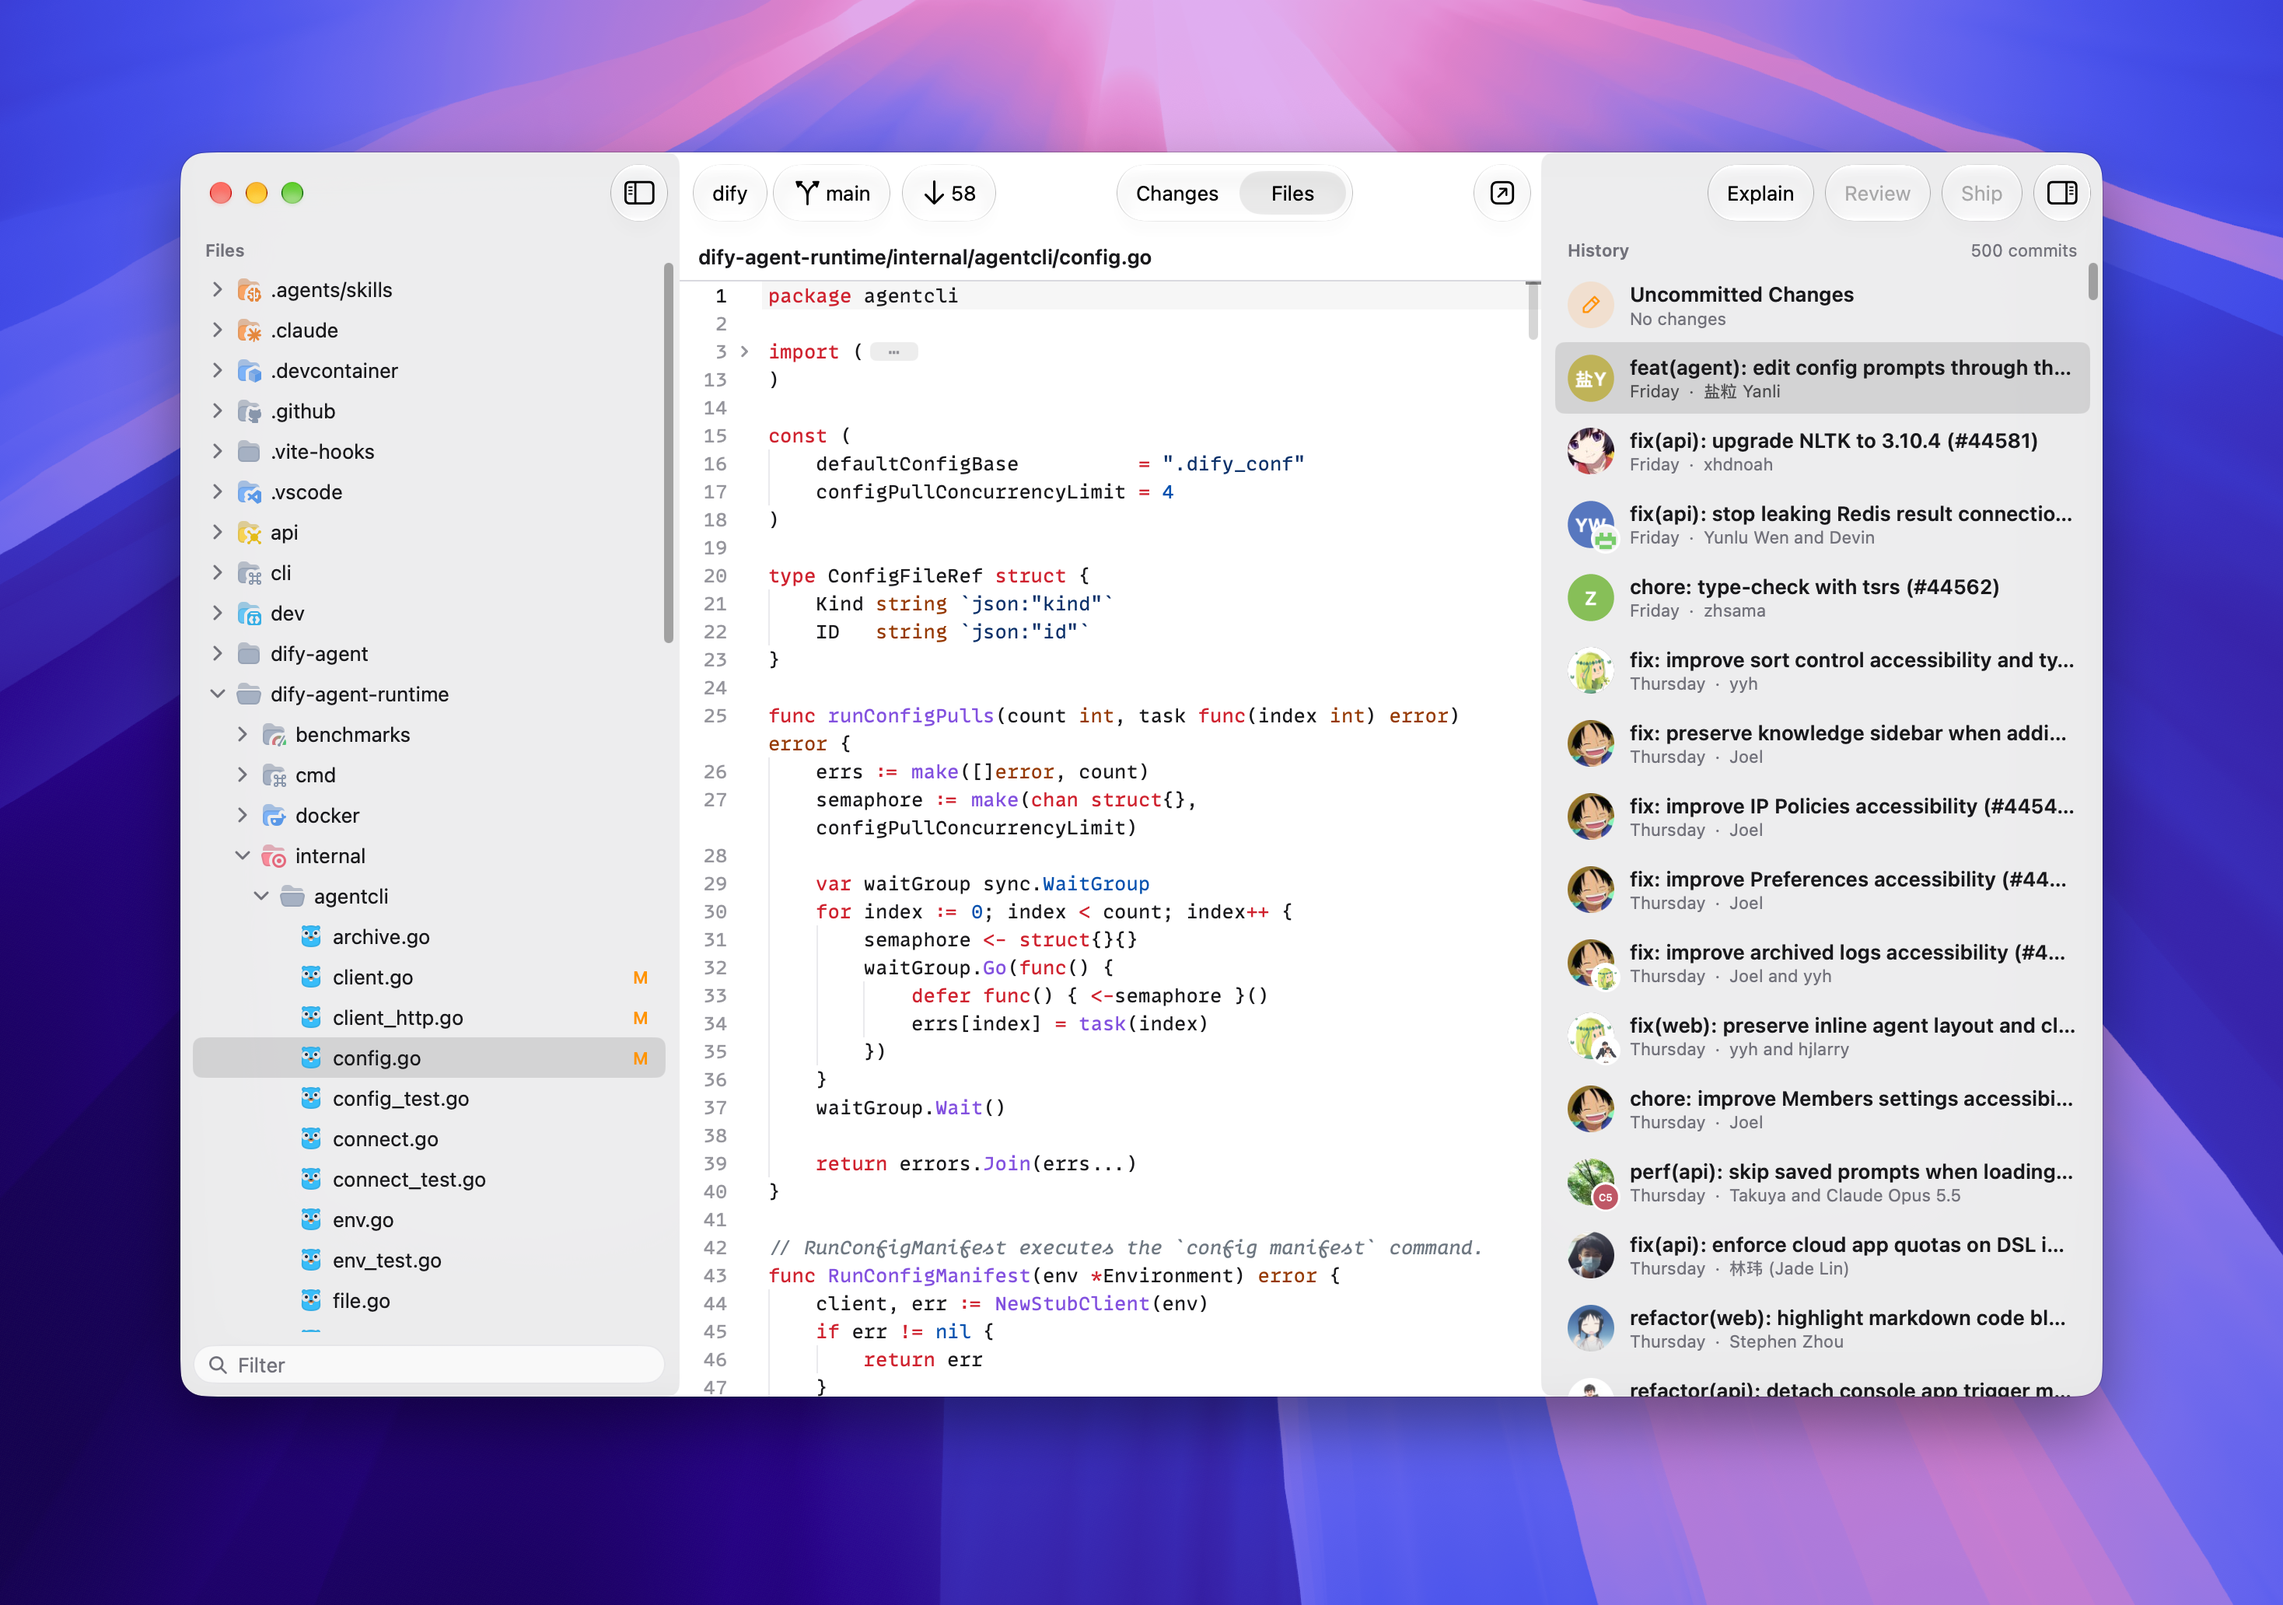
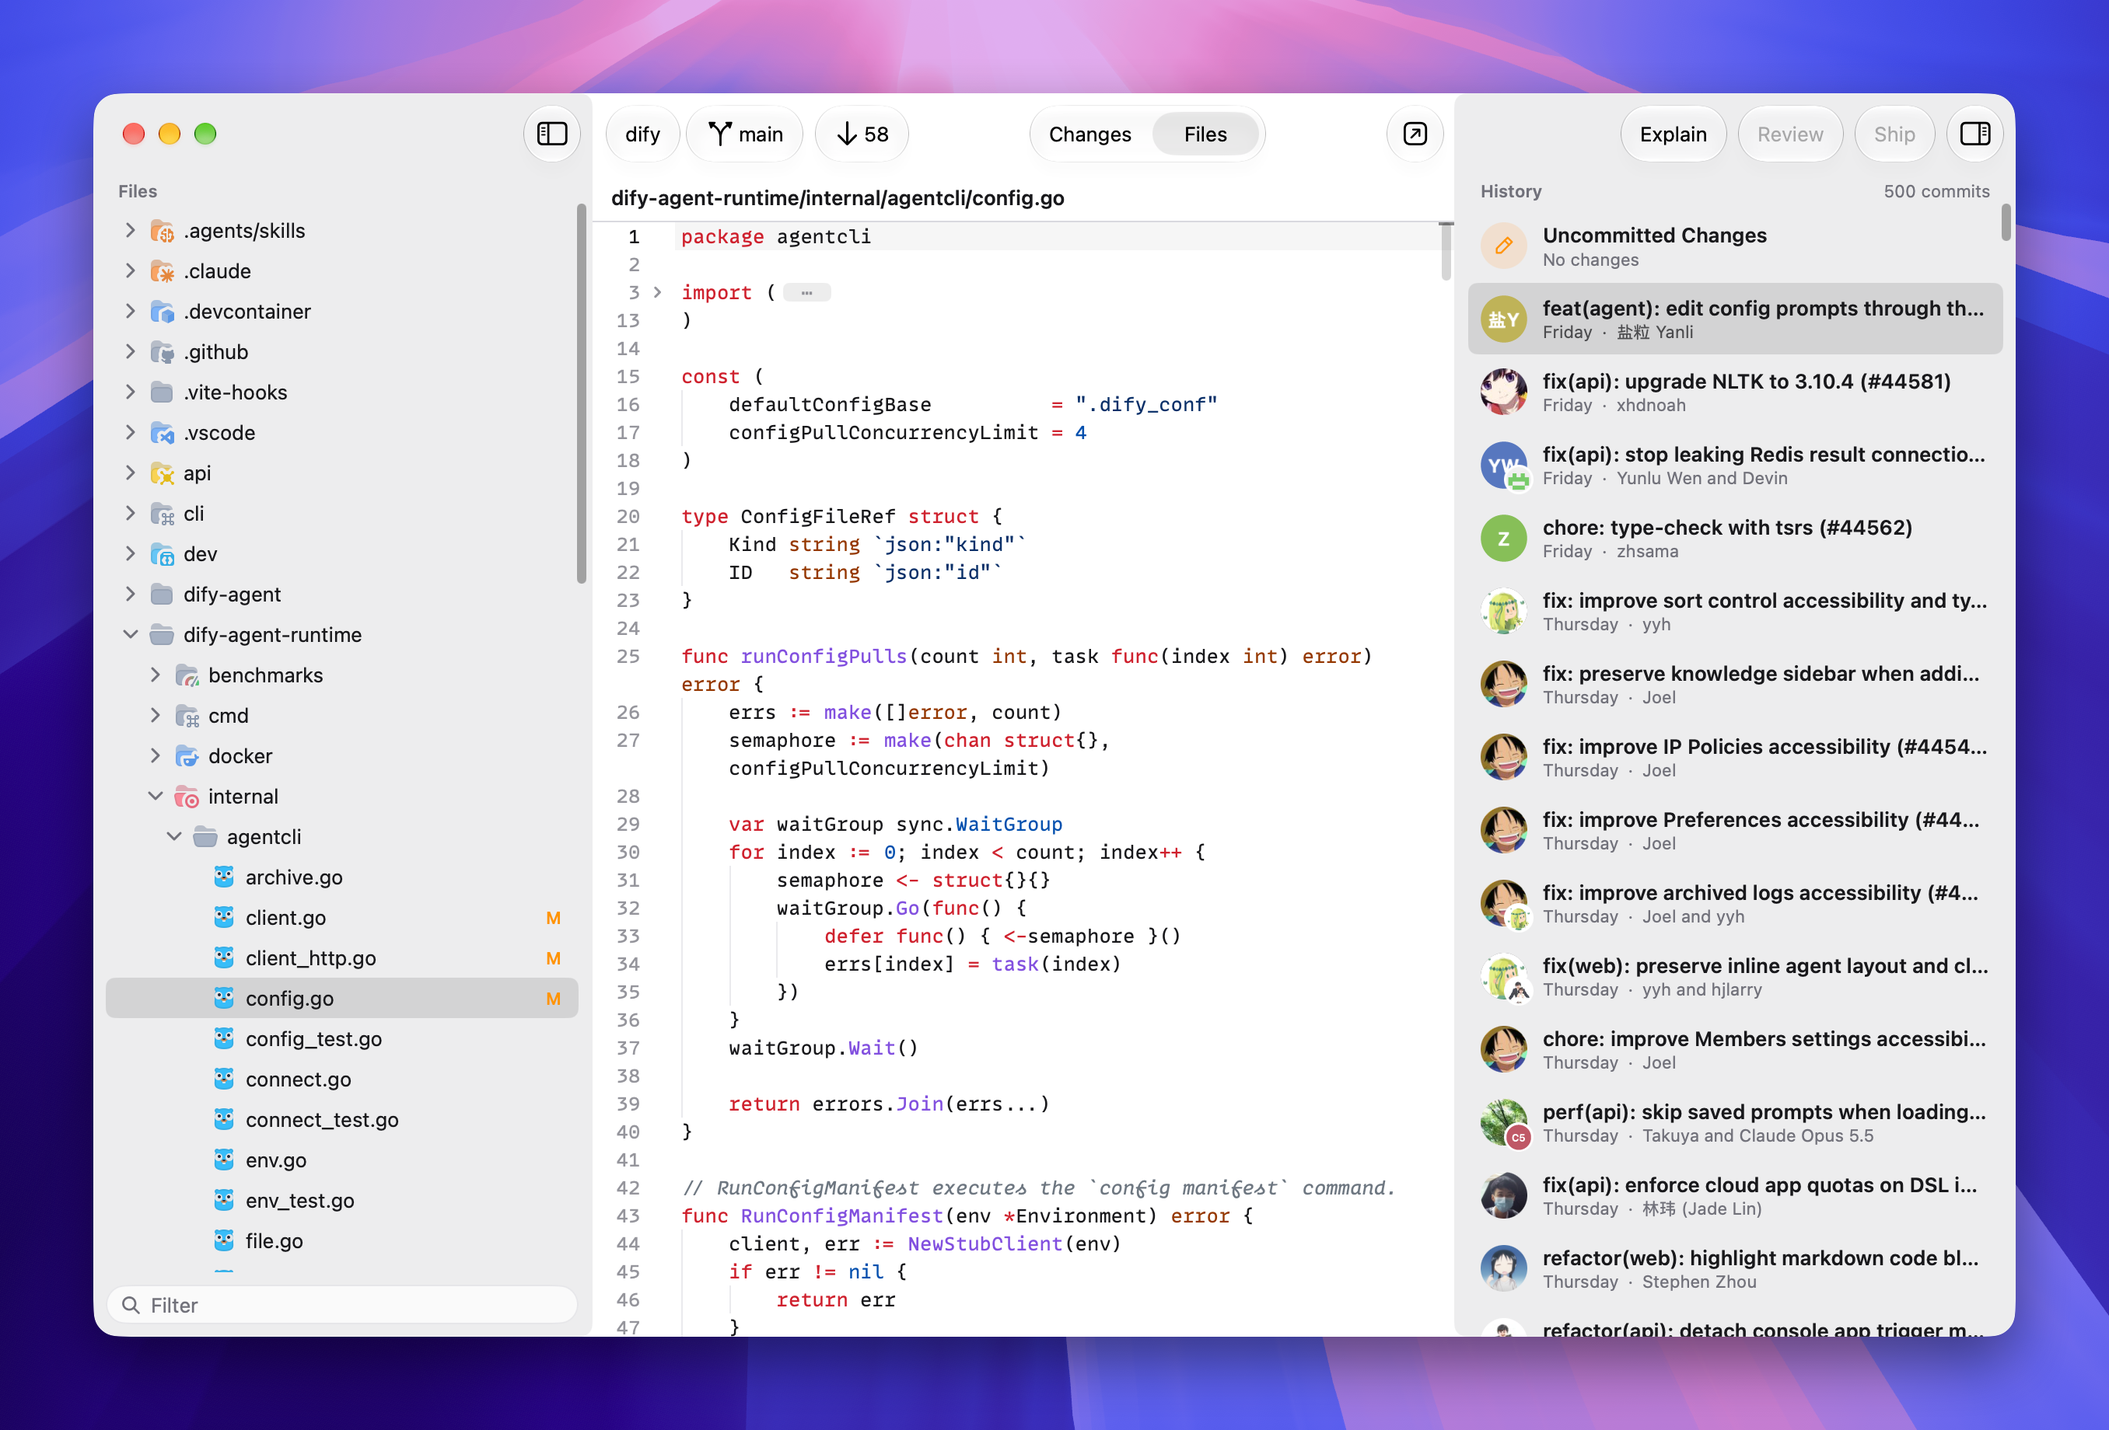
Capture the README screenshots from the screen, for the sidebars' glass
A capture of the window alone leaves out what shows through the glass.
The script takes the window's area of the screen instead, and draws the
window's shadow and corners over the wallpaper itself.

diff --git a/README.md b/README.md
@@ -162,7 +162,7 @@ go tool mygo build
 CGO_ENABLED=0 go test ./...
 ```
 
-The screenshots above are of the installed Peek's window, over a clone of [Dify](https://github.com/langgenius/dify) with `main` at commit `9dc53da` ([#44561](https://github.com/langgenius/dify/pull/44561)), whose `origin` is the GitHub repository and `origin/main` 58 commits on: that commit in Changes, and `dify-agent-runtime/internal/agentcli/config.go` in Files, in the light and the dark appearance, the window with its shadow over the desktop's wallpaper. Take them again, into `docs/`, from a clone of Dify of your own:
+The screenshots above are of the installed Peek's window, over a clone of [Dify](https://github.com/langgenius/dify) with `main` at commit `9dc53da` ([#44561](https://github.com/langgenius/dify/pull/44561)), whose `origin` is the GitHub repository and `origin/main` 58 commits on: that commit in Changes, and `dify-agent-runtime/internal/agentcli/config.go` in Files, in the light and the dark appearance, the window as the screen shows it, its sidebars' glass over the desktop's wallpaper, with its shadow. Take them again, into `docs/`, from a clone of Dify of your own:
 
 ```bash
 scripts/screenshots.sh path/to/dify
